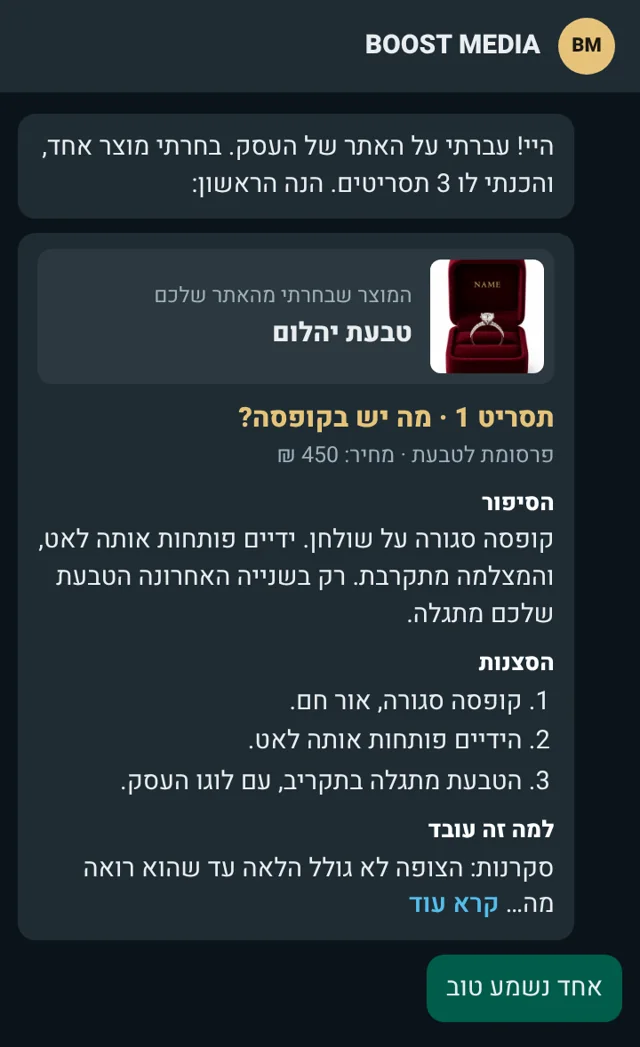
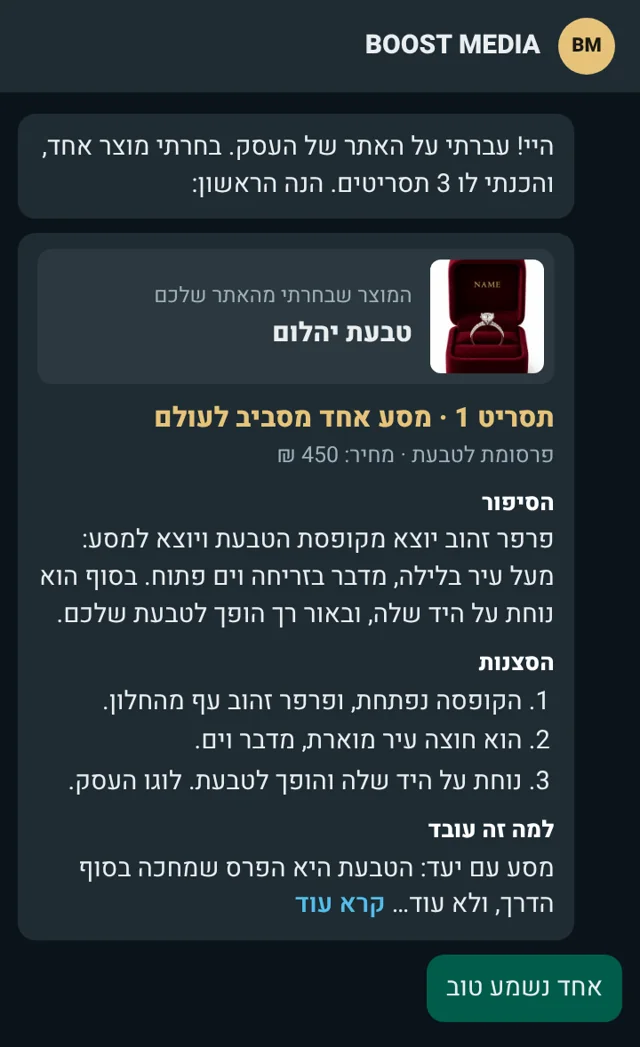
How it works: the script example now uses the butterfly-journey idea from the ideas catalog
Claude-Session: https://claude.ai/code/session_015Kj6wZhrCRAfSfrvuRRH85

diff --git a/index.html b/index.html
@@ -887,7 +887,7 @@ dialog .undo{bottom:24px}
       </div>
       <div class="hw-p" id="how-scan" role="tabpanel" aria-labelledby="hwt-scan">
         <p class="hw-line">מדביקים קישור לעסק, מקבלים 3 תסריטים בוואטסאפ, ובוחרים אחד.</p>
-        <div class="hw-row"><button type="button" class="hw-s" aria-expanded="false" data-big="how/a1.webp" data-h="מדביקים קישור לעסק" data-d="מדביקים קישור לאתר או לאינסטגרם. אנחנו &lt;b&gt;סורקים את העסק&lt;/b&gt;, לומדים את המוצרים והסגנון, ו&lt;b&gt;בוחרים רעיונות שמתאימים בדיוק לו&lt;/b&gt;." data-ill="0"><span class="ph"><img src="how/a1-s.webp" alt="" loading="lazy" width="300" height="300"><i aria-hidden="true">1</i></span><b>מדביקים קישור</b></button><button type="button" class="hw-s" aria-expanded="false" data-big="how/a2.webp?5" data-h="מקבלים 3 תסריטים ובוחרים" data-d="לומדים את המוצרים, הצבעים והסגנון שלכם, ושולחים לכם בוואטסאפ 3 תסריטים שנכתבו בשביל העסק שלכם. בכל תסריט: המוצר שנבחר מהאתר שלכם, הסיפור בקצרה, הסצנות והמחיר. עונים איזה תסריט אהבתם, למשל &quot;אחד נשמע טוב&quot;." data-ill="1"><span class="ph"><img src="how/a2-s.webp?5" alt="" loading="lazy" width="300" height="300"><i aria-hidden="true">2</i><em>המחשה</em></span><b>בוחרים תסריט</b></button><button type="button" class="hw-s" aria-expanded="false" data-big="how/a3.webp?5" data-h="מקבלים את הסרטון" data-d="תוך 2 ימי עסקים הסרטון מגיע אליכם בוואטסאפ, מוכן לאינסטגרם, לטיקטוק ולאתר. רוצים לשנות משהו קטן? כותבים לנו." data-ill="1"><span class="ph"><img src="how/a3-s.webp?5" alt="" loading="lazy" width="300" height="300"><i aria-hidden="true">3</i><em>המחשה</em></span><b>מקבלים סרטון</b></button></div>
+        <div class="hw-row"><button type="button" class="hw-s" aria-expanded="false" data-big="how/a1.webp" data-h="מדביקים קישור לעסק" data-d="מדביקים קישור לאתר או לאינסטגרם. אנחנו &lt;b&gt;סורקים את העסק&lt;/b&gt;, לומדים את המוצרים והסגנון, ו&lt;b&gt;בוחרים רעיונות שמתאימים בדיוק לו&lt;/b&gt;." data-ill="0"><span class="ph"><img src="how/a1-s.webp" alt="" loading="lazy" width="300" height="300"><i aria-hidden="true">1</i></span><b>מדביקים קישור</b></button><button type="button" class="hw-s" aria-expanded="false" data-big="how/a2.webp?7" data-h="מקבלים 3 תסריטים ובוחרים" data-d="לומדים את המוצרים, הצבעים והסגנון שלכם, ושולחים לכם בוואטסאפ 3 תסריטים שנכתבו בשביל העסק שלכם. בכל תסריט: המוצר שנבחר מהאתר שלכם, הסיפור בקצרה, הסצנות והמחיר. עונים איזה תסריט אהבתם, למשל &quot;אחד נשמע טוב&quot;." data-ill="1"><span class="ph"><img src="how/a2-s.webp?7" alt="" loading="lazy" width="300" height="300"><i aria-hidden="true">2</i><em>המחשה</em></span><b>בוחרים תסריט</b></button><button type="button" class="hw-s" aria-expanded="false" data-big="how/a3.webp?7" data-h="מקבלים את הסרטון" data-d="תוך 2 ימי עסקים הסרטון מגיע אליכם בוואטסאפ, מוכן לאינסטגרם, לטיקטוק ולאתר. רוצים לשנות משהו קטן? כותבים לנו." data-ill="1"><span class="ph"><img src="how/a3-s.webp?7" alt="" loading="lazy" width="300" height="300"><i aria-hidden="true">3</i><em>המחשה</em></span><b>מקבלים סרטון</b></button></div>
         <p class="hw-hint">לחיצה על תמונה פותחת הסבר מפורט.</p>
         <div class="hw-d" hidden><div class="hw-dimg"><img alt=""><em hidden>המחשה</em></div><div class="hw-dt"><h3></h3><p></p><button type="button" class="hw-dx">סגירה</button></div></div>
         <div class="hw-cta"><button class="btn gold" type="button" data-scan>שלחו לי רעיונות <span class="arr" aria-hidden="true">←</span></button></div>
